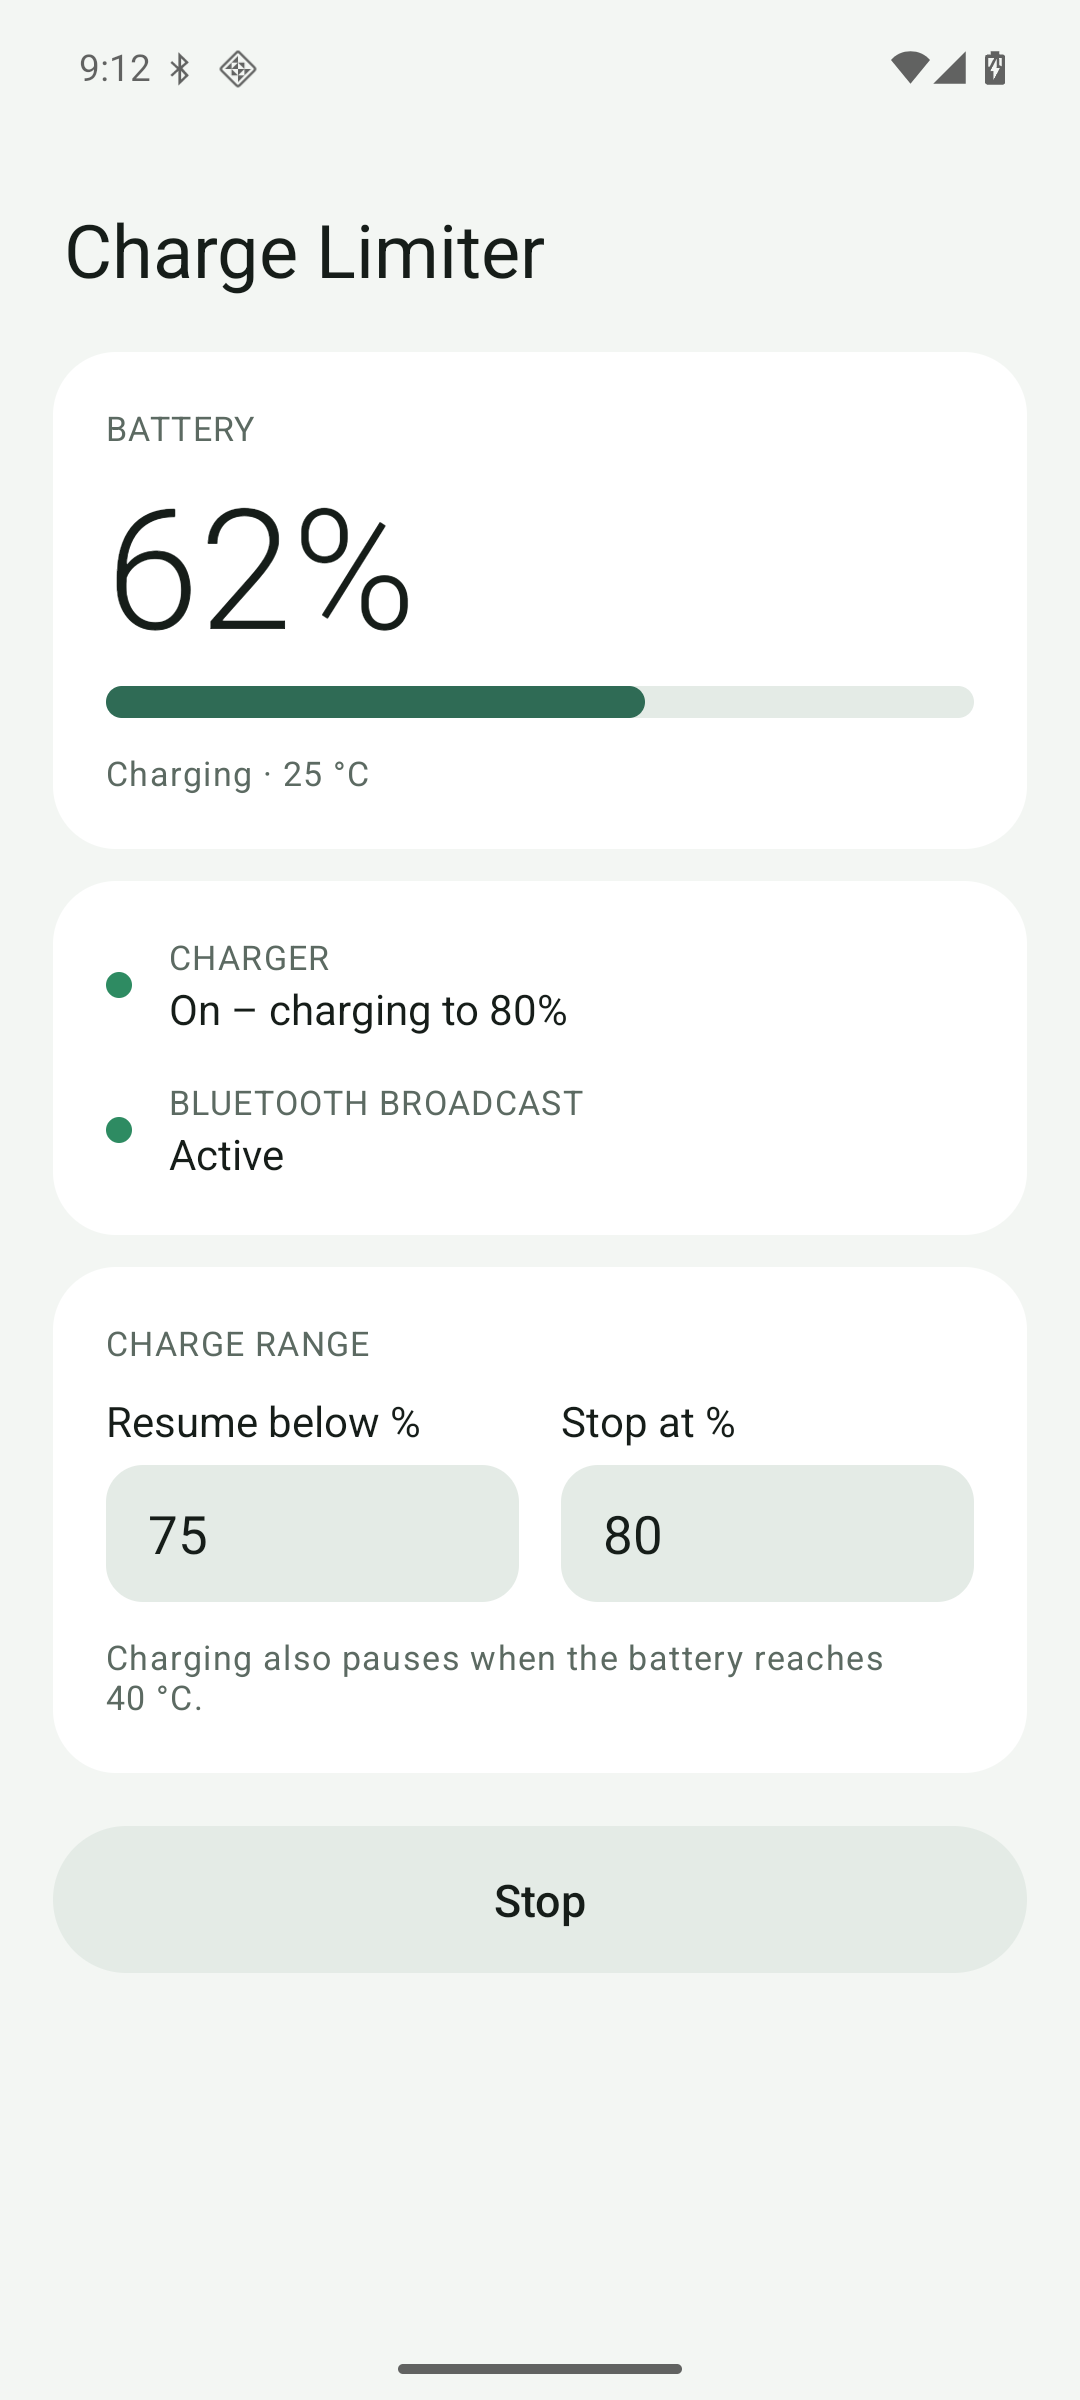
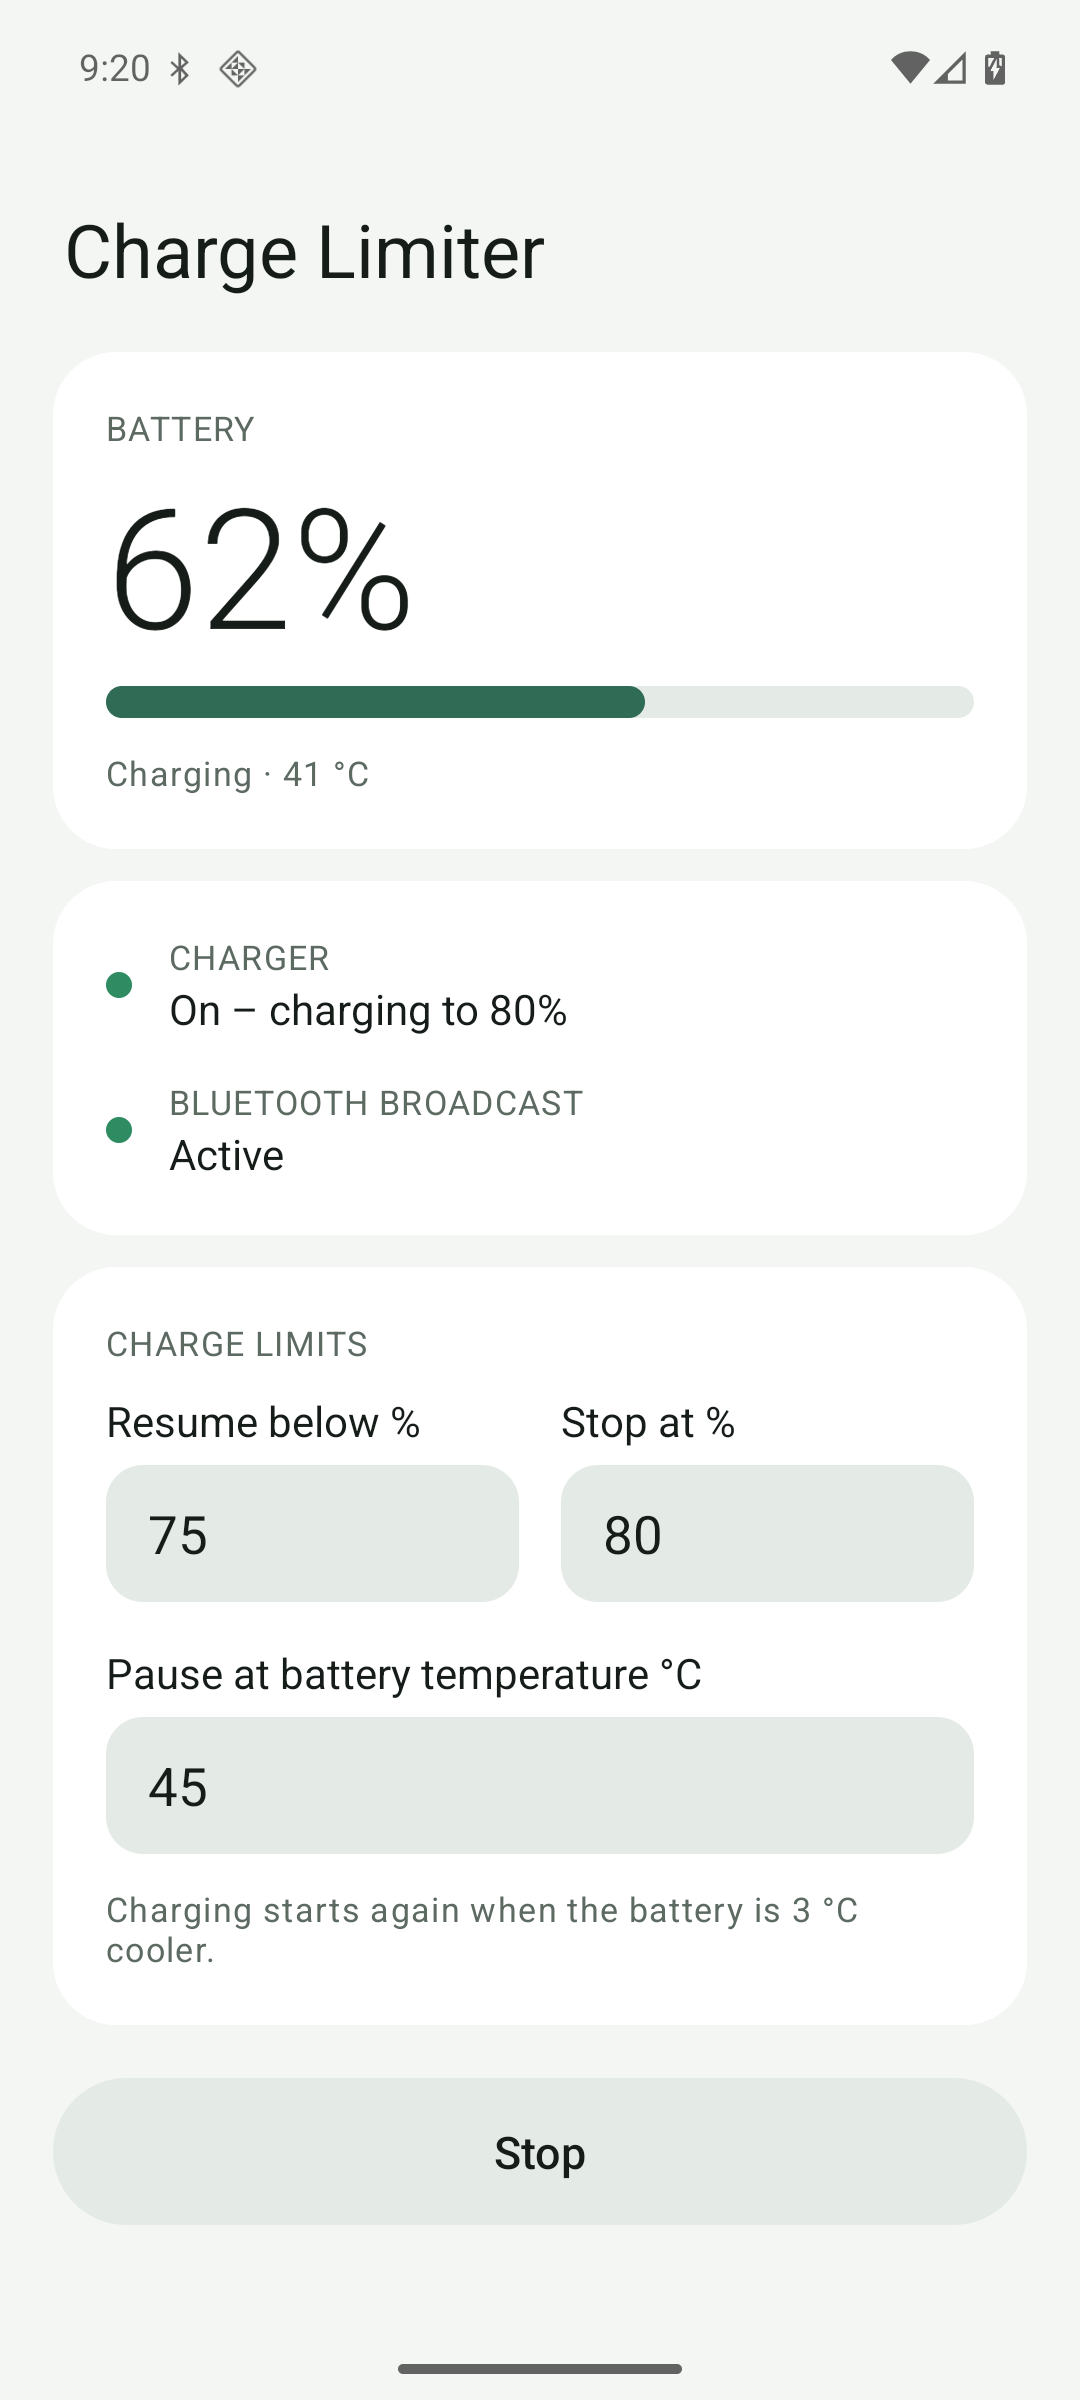
feat: adjustable heat limit, default 45 C

diff --git a/app/src/main/kotlin/app/chargelimit/MainActivity.kt b/app/src/main/kotlin/app/chargelimit/MainActivity.kt
@@ -32,6 +32,7 @@ class MainActivity : Activity() {
     private lateinit var broadcasting: TextView
     private lateinit var low: EditText
     private lateinit var high: EditText
+    private lateinit var hot: EditText
     private lateinit var toggle: Button
 
     override fun onCreate(savedInstanceState: Bundle?) {
@@ -47,12 +48,14 @@ class MainActivity : Activity() {
         broadcasting = findViewById(R.id.broadcasting)
         low = findViewById(R.id.low)
         high = findViewById(R.id.high)
+        hot = findViewById(R.id.hot)
         toggle = findViewById(R.id.toggle)
 
         showRange()
         val saveOnBlur = View.OnFocusChangeListener { _, focused -> if (!focused) saveRange() }
         low.onFocusChangeListener = saveOnBlur
         high.onFocusChangeListener = saveOnBlur
+        hot.onFocusChangeListener = saveOnBlur
         toggle.setOnClickListener { if (settings.enabled) stopService() else startService() }
     }
 
@@ -151,16 +154,25 @@ class MainActivity : Activity() {
     private fun showRange() {
         low.setText(settings.low.toString())
         high.setText(settings.high.toString())
+        hot.setText(settings.hotC.toString())
     }
 
-    /** Saves the two fields. On bad input, shows the stored values and the reason. */
+    /** Saves the three fields. On bad input, shows the stored values and the reason. */
     private fun saveRange() {
         val newLow = low.text.toString().trim().toIntOrNull() ?: -1
         val newHigh = high.text.toString().trim().toIntOrNull() ?: -1
-        if (newLow == settings.low && newHigh == settings.high) return
-        if (!settings.setRange(newLow, newHigh)) {
+        val newHot = hot.text.toString().trim().toIntOrNull() ?: -1
+        val rangeChanged = newLow != settings.low || newHigh != settings.high
+        val hotChanged = newHot != settings.hotC
+        if (!rangeChanged && !hotChanged) return
+        if (rangeChanged && !settings.setRange(newLow, newHigh)) {
             showRange()
             Toast.makeText(this, R.string.range_invalid, Toast.LENGTH_LONG).show()
+            return
+        }
+        if (hotChanged && !settings.setHot(newHot)) {
+            showRange()
+            Toast.makeText(this, R.string.hot_invalid, Toast.LENGTH_LONG).show()
             return
         }
         if (!settings.enabled) return

diff --git a/app/src/test/kotlin/app/chargelimit/ChargePolicyTest.kt b/app/src/test/kotlin/app/chargelimit/ChargePolicyTest.kt
@@ -50,23 +50,29 @@ class ChargePolicyTest {
     }
 
     @Test
-    fun hotAtFortyDegrees() {
-        assertFalse(ChargePolicy.nextTooHot(399, previousTooHot = false))
-        assertTrue(ChargePolicy.nextTooHot(400, previousTooHot = false))
+    fun hotAtTheLimit() {
+        assertFalse(ChargePolicy.nextTooHot(449, previousTooHot = false, hotC = 45))
+        assertTrue(ChargePolicy.nextTooHot(450, previousTooHot = false, hotC = 45))
     }
 
     @Test
-    fun staysHotUntilBelowThirtySevenDegrees() {
-        assertTrue(ChargePolicy.nextTooHot(370, previousTooHot = true))
-        assertFalse(ChargePolicy.nextTooHot(369, previousTooHot = true))
+    fun staysHotUntilThreeDegreesBelowTheLimit() {
+        assertTrue(ChargePolicy.nextTooHot(420, previousTooHot = true, hotC = 45))
+        assertFalse(ChargePolicy.nextTooHot(419, previousTooHot = true, hotC = 45))
     }
 
     @Test
-    fun temperatureJitterAtFortyGivesOneChange() {
+    fun theLimitIsAdjustable() {
+        assertTrue(ChargePolicy.nextTooHot(400, previousTooHot = false, hotC = 40))
+        assertFalse(ChargePolicy.nextTooHot(400, previousTooHot = false, hotC = 45))
+    }
+
+    @Test
+    fun temperatureJitterAtTheLimitGivesOneChange() {
         var hot = false
         var changes = 0
-        for (tenths in intArrayOf(398, 400, 396, 401, 395)) {
-            val next = ChargePolicy.nextTooHot(tenths, hot)
+        for (tenths in intArrayOf(448, 450, 446, 451, 445)) {
+            val next = ChargePolicy.nextTooHot(tenths, hot, hotC = 45)
             if (next != hot) changes++
             hot = next
         }
@@ -75,7 +81,16 @@ class ChargePolicyTest {
 
     @Test
     fun unknownTemperatureIsNotHot() {
-        assertFalse(ChargePolicy.nextTooHot(ChargePolicy.TEMPERATURE_UNKNOWN, previousTooHot = true))
+        assertFalse(ChargePolicy.nextTooHot(ChargePolicy.TEMPERATURE_UNKNOWN, previousTooHot = true, hotC = 45))
+    }
+
+    @Test
+    fun heatLimitDefaultAndRange() {
+        assertEquals(45, ChargePolicy.DEFAULT_HOT_C)
+        assertTrue(ChargePolicy.validHot(30))
+        assertTrue(ChargePolicy.validHot(60))
+        assertFalse(ChargePolicy.validHot(29))
+        assertFalse(ChargePolicy.validHot(61))
     }
 
     @Test

diff --git a/app/src/main/kotlin/app/chargelimit/ChargePolicy.kt b/app/src/main/kotlin/app/chargelimit/ChargePolicy.kt
@@ -18,25 +18,28 @@ object ChargePolicy {
         else -> previousWantOn
     }
 
-    /** The charger stops at this battery temperature. The unit is 0.1 °C, as Android reports it. */
-    const val HOT_TENTHS = 400
+    /** The charger stops at this battery temperature in °C. A phone on a fast charger is frequently above 40 °C. */
+    const val DEFAULT_HOT_C = 45
 
-    /** The charger can start again below this battery temperature. */
-    const val COOL_TENTHS = 370
+    /** The charger can start again when the battery is this much cooler than the limit. The unit is 0.1 °C. */
+    private const val COOL_MARGIN_TENTHS = 30
 
     /** The value for a phone that does not report its battery temperature. */
     const val TEMPERATURE_UNKNOWN = Int.MIN_VALUE
 
     /**
      * Returns true when the battery is too hot to charge.
+     * Android reports [temperatureTenths] in units of 0.1 °C. The limit [hotC] is in °C.
      * Two thresholds prevent fast changes. An unknown temperature is not hot.
      */
-    fun nextTooHot(temperatureTenths: Int, previousTooHot: Boolean): Boolean = when {
+    fun nextTooHot(temperatureTenths: Int, previousTooHot: Boolean, hotC: Int): Boolean = when {
         temperatureTenths == TEMPERATURE_UNKNOWN -> false
-        temperatureTenths >= HOT_TENTHS -> true
-        temperatureTenths < COOL_TENTHS -> false
+        temperatureTenths >= hotC * 10 -> true
+        temperatureTenths < hotC * 10 - COOL_MARGIN_TENTHS -> false
         else -> previousTooHot
     }
+
+    fun validHot(hotC: Int): Boolean = hotC in 30..60
 
     /** Heat stops the charger at any battery level. */
     fun chargerOn(levelWantsOn: Boolean, tooHot: Boolean): Boolean = levelWantsOn && !tooHot

diff --git a/app/src/main/kotlin/app/chargelimit/Settings.kt b/app/src/main/kotlin/app/chargelimit/Settings.kt
@@ -22,6 +22,16 @@ class Settings(context: Context) {
         return true
     }
 
+    /** The battery temperature in °C at which the charger stops. */
+    val hotC: Int get() = prefs.getInt("hotC", ChargePolicy.DEFAULT_HOT_C)
+
+    /** Returns false and keeps the stored value when the temperature is not valid. */
+    fun setHot(hotC: Int): Boolean {
+        if (!ChargePolicy.validHot(hotC)) return false
+        prefs.edit().putInt("hotC", hotC).apply()
+        return true
+    }
+
     /** True when the user wants the service to run. The boot receiver reads this value. */
     var enabled: Boolean
         get() = prefs.getBoolean("enabled", false)

diff --git a/app/src/main/kotlin/app/chargelimit/ChargeService.kt b/app/src/main/kotlin/app/chargelimit/ChargeService.kt
@@ -163,7 +163,7 @@ class ChargeService : Service() {
             levelWantsOn = next
             settings.wantOn = next
         }
-        tooHot = ChargePolicy.nextTooHot(temperature, tooHot)
+        tooHot = ChargePolicy.nextTooHot(temperature, tooHot, settings.hotC)
     }
 
     private fun advertiseData(): AdvertiseData {
